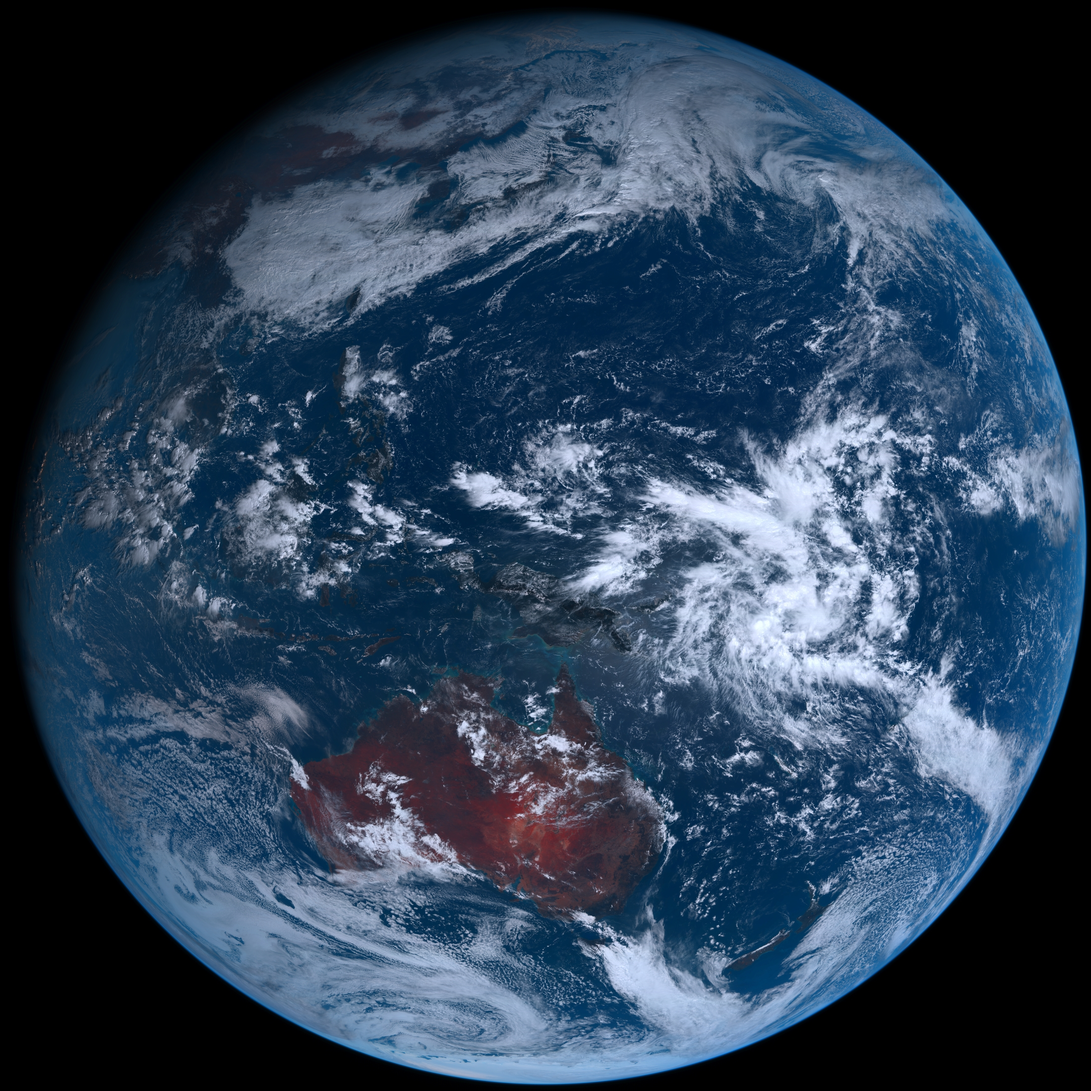
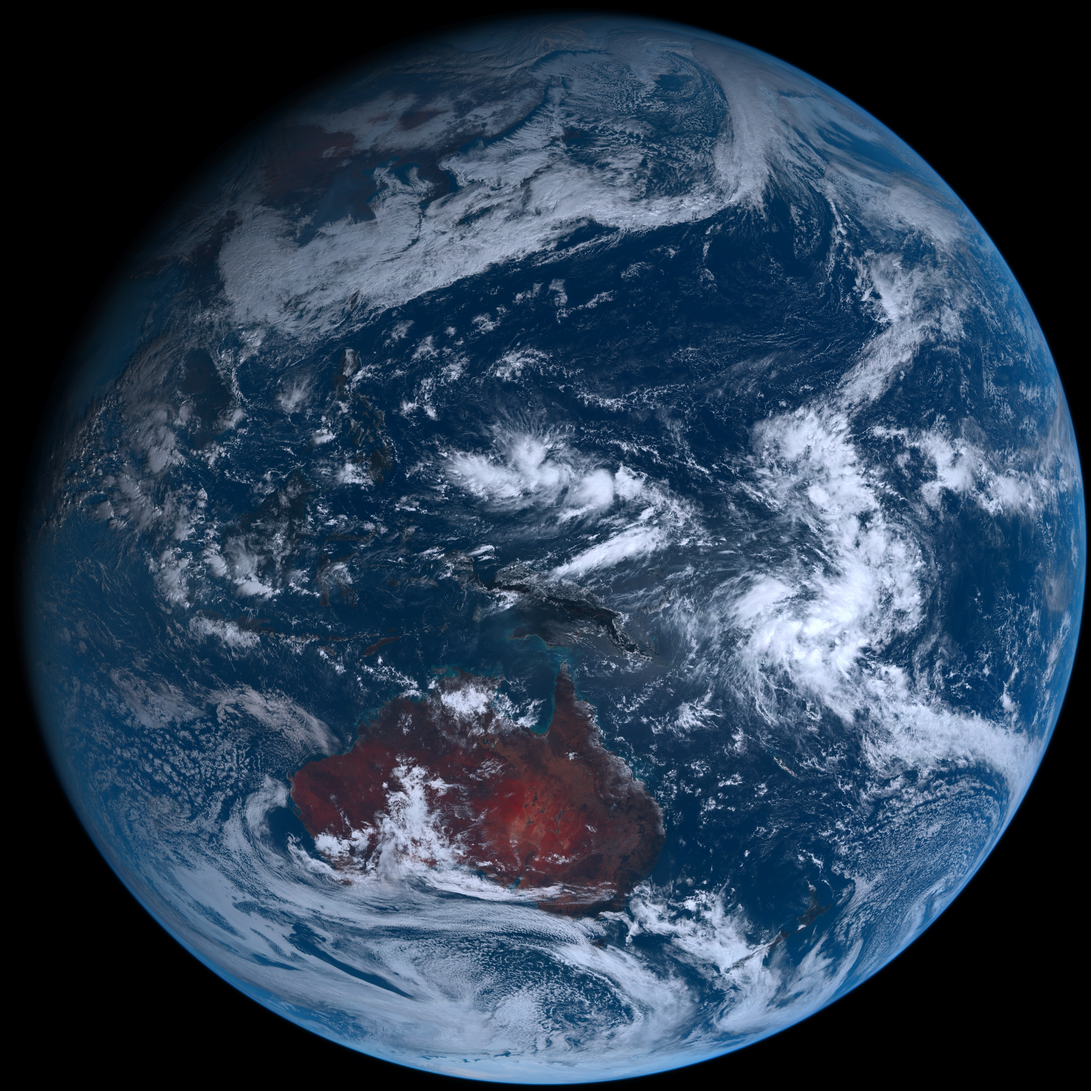
Sunday 11/12/2023 03:08 +00

diff --git a/README.md b/README.md
@@ -1,12 +1,12 @@
 # ps1
 
 - ### [BingWallpaper](https://github.com/milankomaj/ps1/wiki/BingWallpaper)  [![Generate Wallpapers Github README.md](https://github.com/milankomaj/ps1/actions/workflows/GenWall.yml/badge.svg?event=schedule)](https://github.com/milankomaj/ps1/actions/workflows/GenWall.yml)
-- ##### Saturday 11/11/2023 03:11:03 +00
+- ##### Sunday 12/11/2023 03:07:35 +00
 <img src="BingWallpaper/latest.jpg" width="700" height="auto" title="👉  BingWallpaper  👈">
-Val di Funes, South Tyrol, Italy (© Achim Thomae/Getty Images)
+Lamps on the banks of the Sarayu River on Diwali, Ayodhya, India (© SANJAY KANOJIA/AFP/Getty Images)
 
 - ### [Himawari](https://github.com/milankomaj/ps1/wiki/Himawari) [![Generate Wallpapers Github README.md](https://github.com/milankomaj/ps1/actions/workflows/GenWall.yml/badge.svg?event=schedule)](https://github.com/milankomaj/ps1/actions/workflows/GenWall.yml) [![Video](https://github.com/milankomaj/ps1/actions/workflows/video.yml/badge.svg?event=schedule)](https://github.com/milankomaj/ps1/actions/workflows/video.yml)
-- ##### Saturday 11/11/2023 03:11:37 +00
+- ##### Sunday 12/11/2023 03:08:10 +00
 <img src="Himawari/latest.jpg" width="auto" height="371" title="👉  Himawari  👈"> <img src="Himawari/pifd/himawari_pifd.webp" width="auto" height="371"/>
 
 
